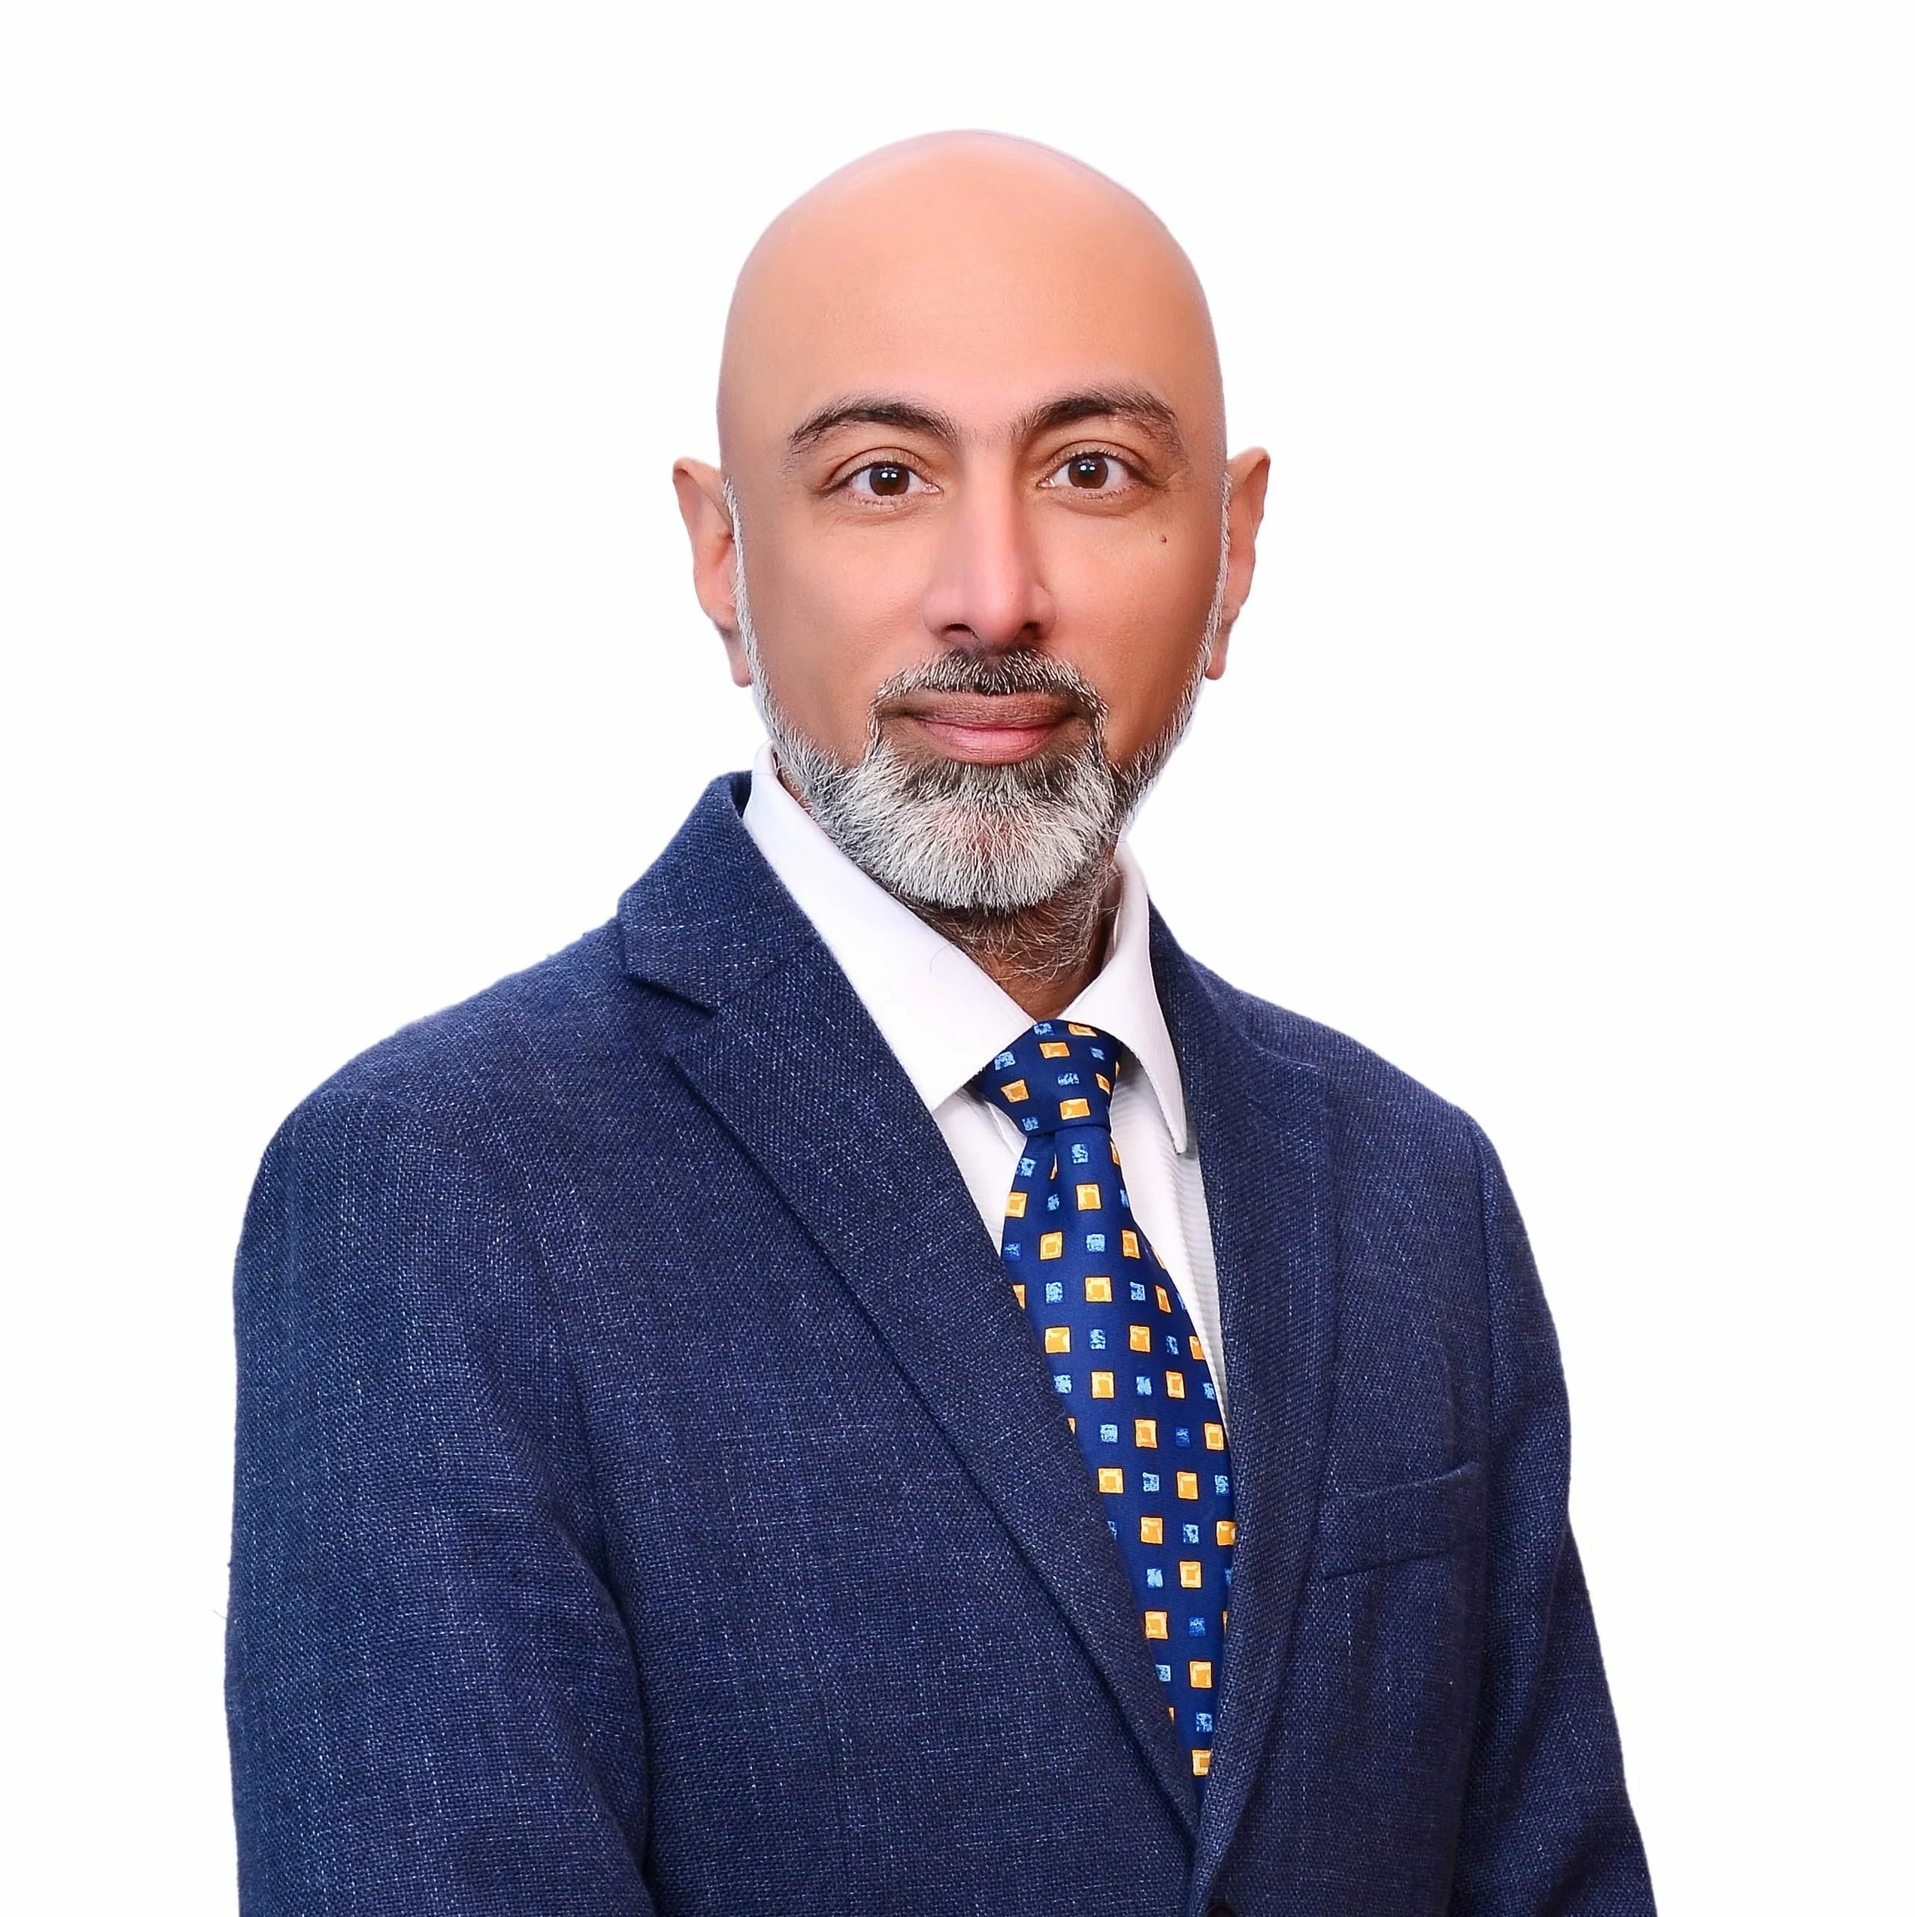
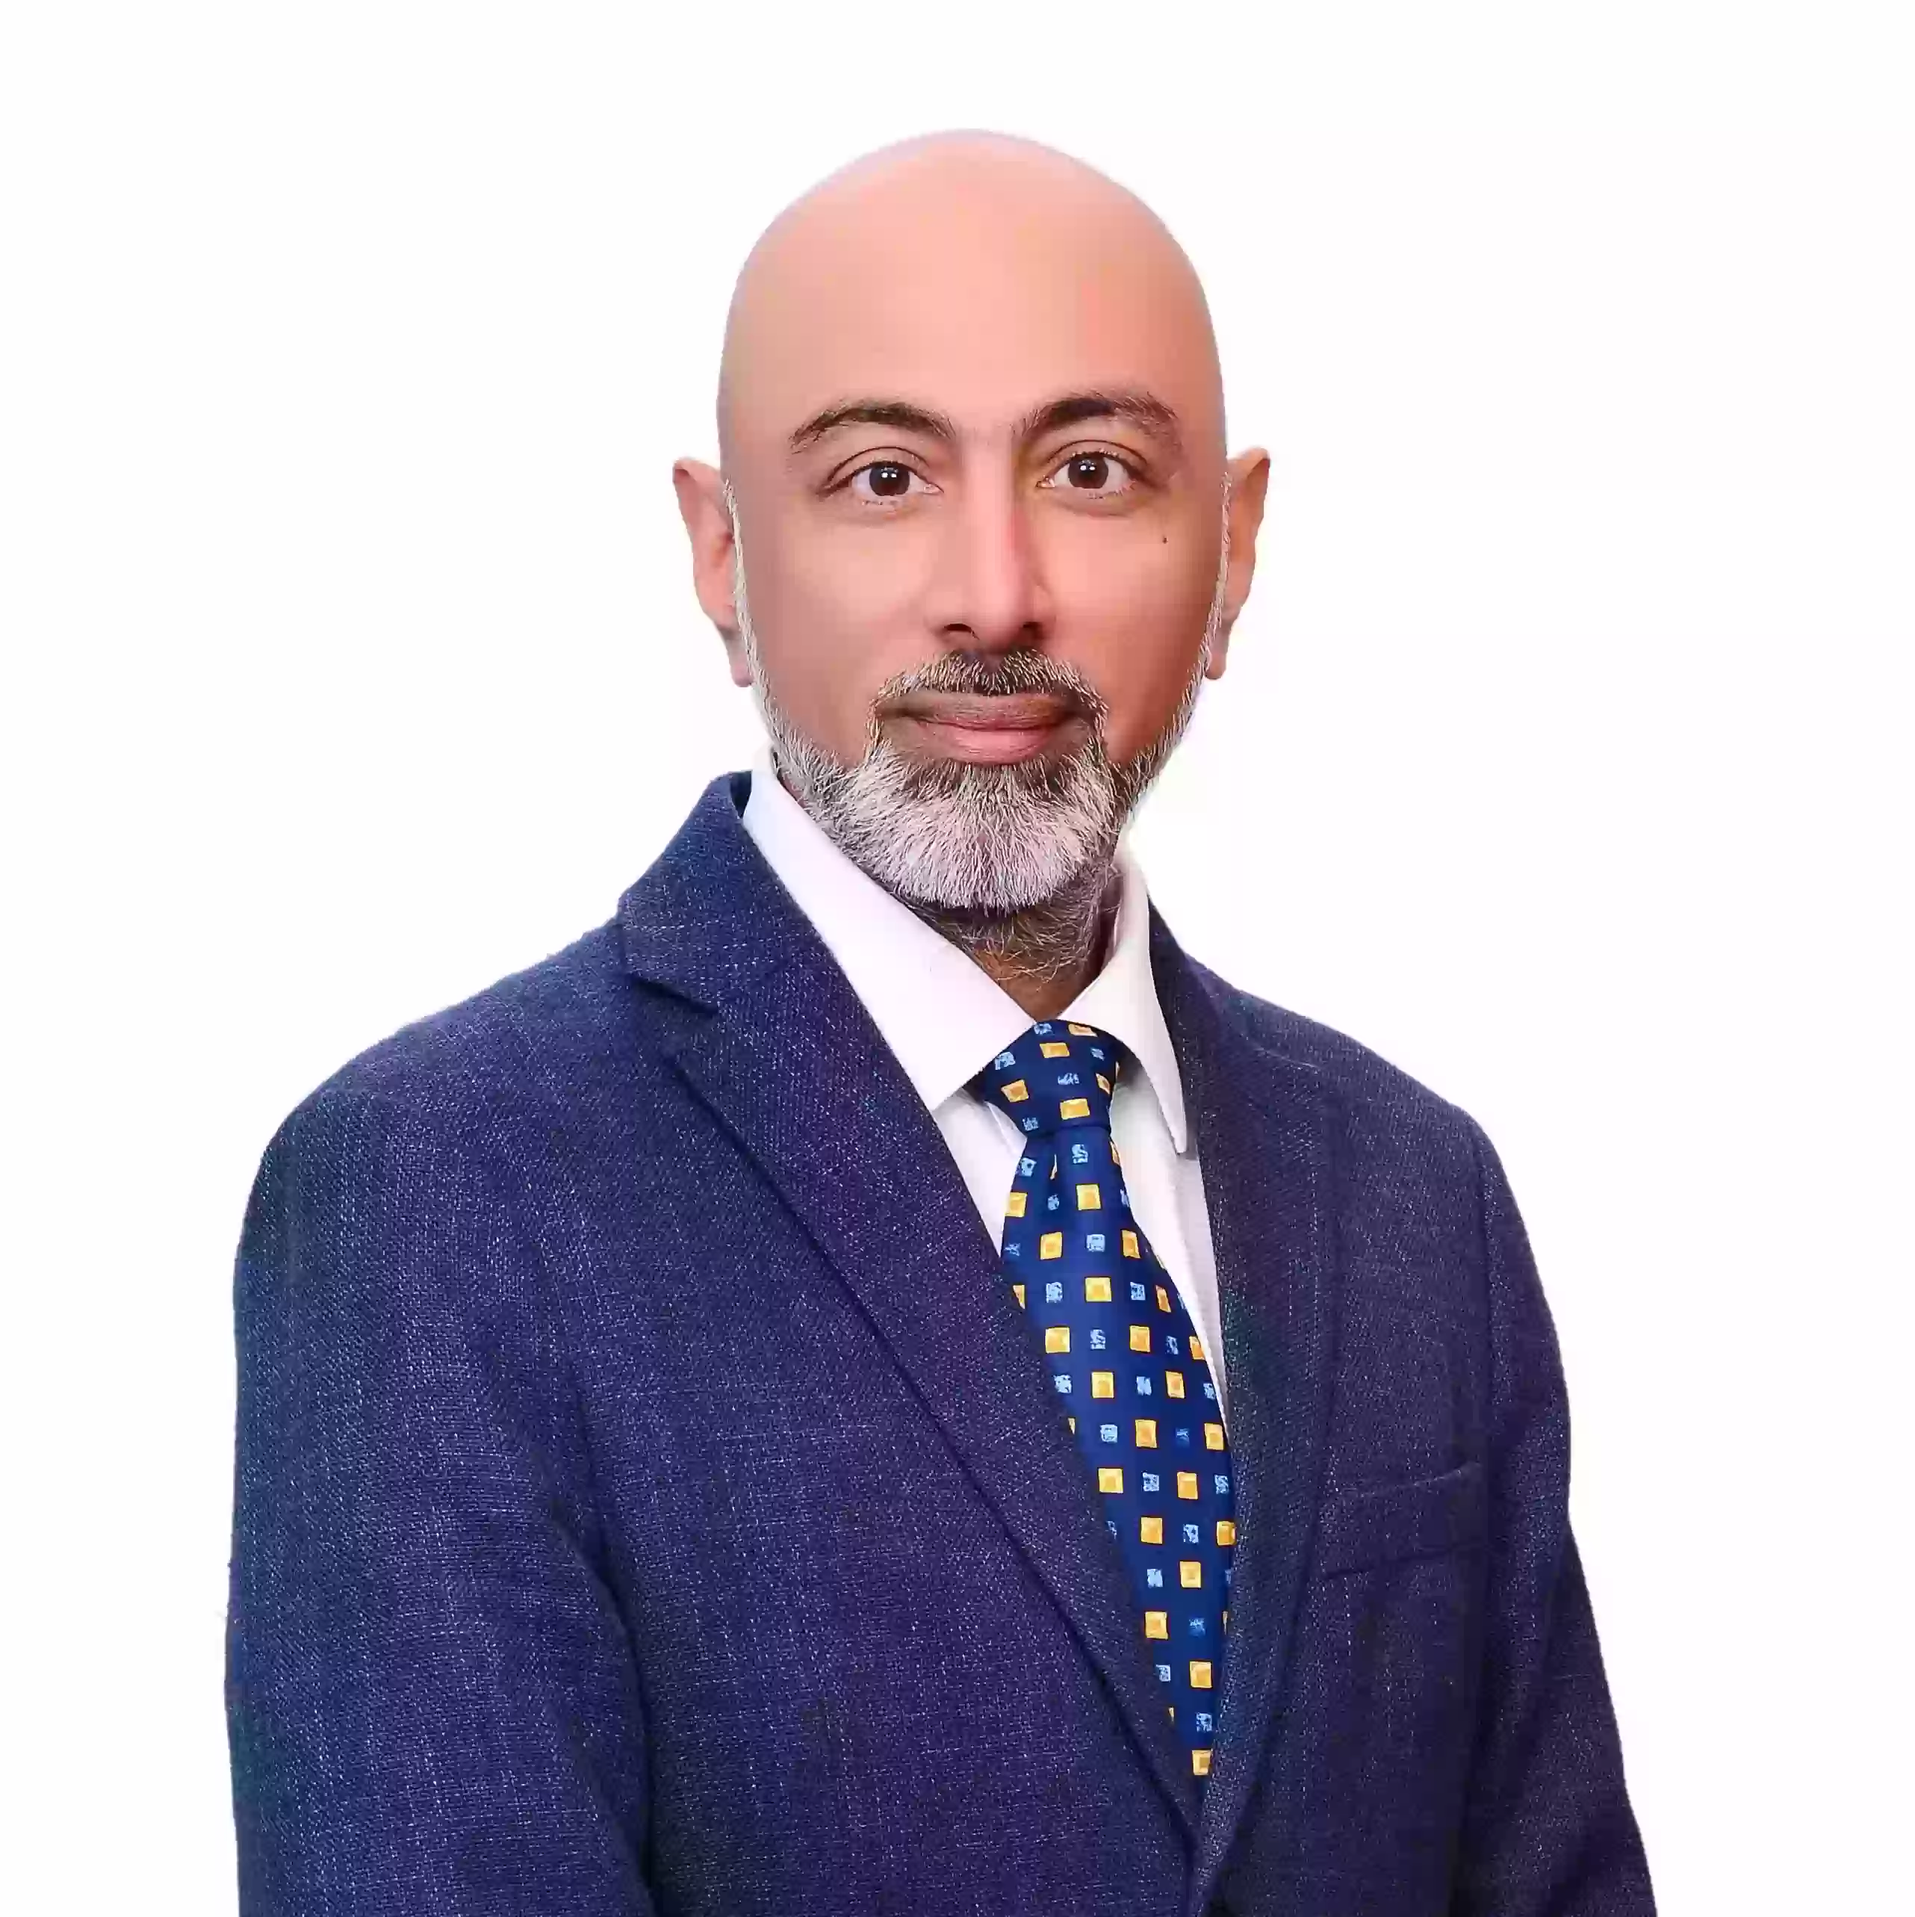
added 4th speaker and optimized images

diff --git a/index.html b/index.html
@@ -246,27 +246,29 @@
                 </div>
               </div>
             </div>
-            <!--
             <div class="col-lg-3 col-md-6 col-sm-6 col-xs-12 parent-card">
-              <div class="card">
+              <div class="card" data-toggle="modal" data-target="#modal-four">
                 <div class="box">
-                  <div class="img"><img src="img/speakers/4.webp" /></div>
+                  <div class="img">
+                    <img
+                      src="img/speakers/4.webp"
+                      alt="Smriti Dewan's portrait."
+                    />
+                  </div>
                   <h2>
-                    Mita Tarafder <br /><span
-                      >Senior Principal Scientist<br />
-                      CSIR-NML, Jamshedpur
+                    Smriti Dewan<br /><span
+                    >Writer, Director and Producer <br />of 101 India
                     </span>
                   </h2>
                   <hr />
                   <p>
-                    Lorem ipsum dolor sit amet, consectetur adipisicing elit,
-                    sed do eiusmod tempor incididunt ut labore et.
+                    Smriti Dewan is a writer, director, and producer who started her career<br>
+                    with Red Chillies Entertainment.
                   </p>
                   <hr />
                 </div>
               </div>
             </div>
-            -->
           </div>
         </div>
 
